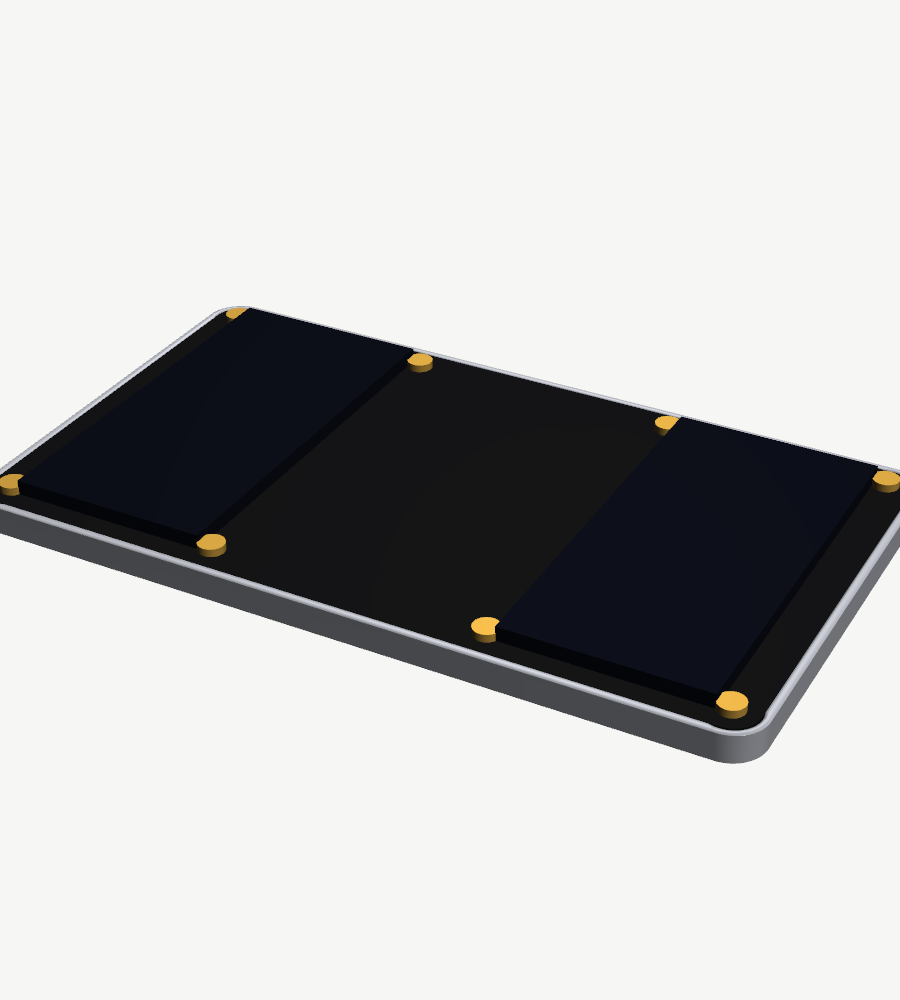
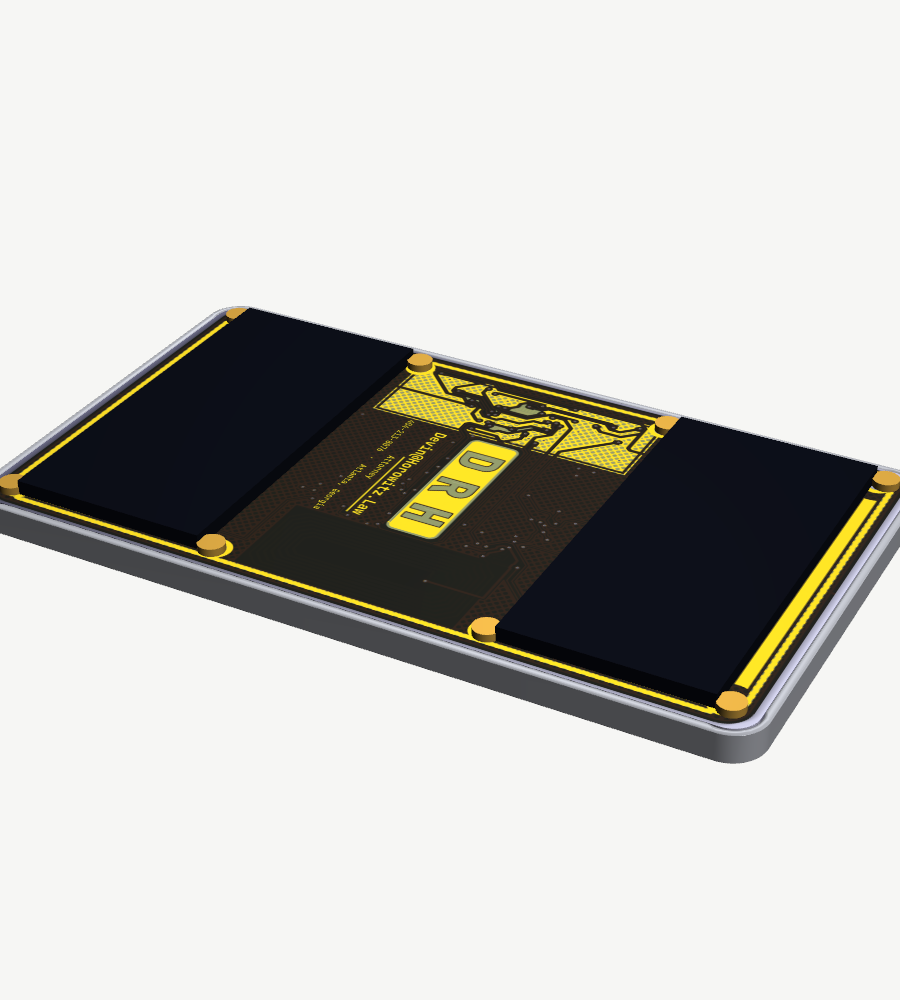
enclosure: the hero shows the actual card, not a black slab
The board was a flat MASK-coloured prism -- honest about the STACK, silent about what the object
IS. No monogram window, no name, no number, nothing that reads at a glance. The show face is now
the raytraced card-face plot textured on, so the DRH window, the cartouche, the ENIG and the
contact line are the board's real artwork.

The plot is orthographic at the board's own aspect (1008x1768 against 50.8 x 88.9, 0.2% off), so
a planar projection maps it with no distortion.

ORIENTATION IS NOT GUESSABLE. VTK's texture origin, the PNG reader's row order and KiCad's y-down
all interact, and the failure is quiet: the first attempt textured perfectly and rendered the name
and number MIRRORED. All four u/v corner assignments were rendered top-down and correlated against
the plot itself -- the one used scores 0.981, the others 0.62 / 0.82 / 0.68. That is now the
comment, so the next person does not re-derive it by eye.

This adds a CI-GENERATED INPUT. Generated/ is CI's and it regenerates from the board on every
PCB/** change, which is the right dependency direction -- re-route the front and the hero follows
-- but a clone that has never run the workflow has nothing to texture with. The script says so and
exits rather than shipping a blank card. (Nothing in CI runs this script; the renders stay
hand-committed, so this only bites locally.)

The GIF encoder is now shared. The exploded sequence was still on the old path -- per-frame
[…]

diff --git a/enclosure/assembly_render.py b/enclosure/assembly_render.py
@@ -17,7 +17,9 @@ Every dimension comes from something already committed, not from a mock-up:
   * the board outline, the 8 mount positions and every part footprint come from
     enclosure/board_parts.py, which reads the committed .kicad_pcb;
   * the Z stack (floor 1.00 / cavity 1.80 / board 0.60) and the screw arithmetic come from
-    enclosure/fit_rules.py and the shell generator's own constants.
+    enclosure/fit_rules.py and the shell generator's own constants;
+  * the show face is the RAYTRACED CARD ITSELF, textured on -- monogram window, name, number,
+    cartouche, ENIG -- not a black rectangle standing in for a PCB.
 
 So if the board moves, these pictures move with it. That is the point -- the previous
 enclosure drawings were hand-restated and quietly went on describing a part that had
@@ -43,6 +45,8 @@ import os, sys, math
 sys.path.insert(0, os.path.dirname(os.path.abspath(__file__)))
 import vtk
 from vtk.util.numpy_support import vtk_to_numpy
+import numpy as np
+from PIL import Image
 import fit_rules as fr
 import board_parts as bp
 from shapely.geometry import box as sbox, Point as spt
@@ -112,6 +116,50 @@ def actor(pd, rgb, spec=0.25, power=20, opacity=1.0):
     return a
 
 
+GIF_COLORS = 256                       # GIF maximum
+GIF_DE = 20                            # a shift this big in a flat area is a visible wrong hue
+GIF_DE_FRAC = 0.5                      # ...and this much of the loop moving that far is the bug
+
+
+def encode_gif(imgs, path, ms, label):
+    """Write an animation as ONE palette sampled across the WHOLE sequence, and prove it landed.
+
+    Per-frame ADAPTIVE palettes -- PIL's default when handed RGB frames, and what this script
+    used to do at 192 colours -- cost a colour table per frame and make flat areas shimmer,
+    because the palette is re-derived from each frame's own histogram. A palette from frame 0
+    alone is worse still: these scenes are nearly all neutral darks (black soldermask, near-black
+    cells, titanium in shadow) with one small warm brass ramp, and frame 0 shows least of it.
+    Fitting 128 colours to that one histogram left the shell's dark greys with no near neighbour
+    and, undithered, they snapped onto the brass browns -- the titanium rim came out visibly TAN
+    while the render behind it was neutral.
+
+    The gate is HOW MUCH of the picture moves, not the single worst pixel: across tens of frames
+    of half-megapixel there is always a specular outlier, and a max-shift gate fired at 70/255 on
+    a sequence whose flat areas were already clean.
+    """
+    srcs = imgs[::max(1, len(imgs) // 10)]
+    mont = Image.new("RGB", (imgs[0].width, imgs[0].height * len(srcs)))
+    for n, im in enumerate(srcs):
+        mont.paste(im, (0, n * imgs[0].height))
+    pal = mont.convert("P", palette=Image.ADAPTIVE, colors=GIF_COLORS)
+    qs = [im.quantize(palette=pal, dither=Image.Dither.NONE) for im in imgs]
+
+    moved = 0
+    for q, s in zip(qs, imgs):
+        d = np.abs(np.asarray(q.convert("RGB")).astype(np.int16)
+                   - np.asarray(s).astype(np.int16)).max(axis=2)
+        moved += int((d > GIF_DE).sum())
+    frac = 100.0 * moved / (len(qs) * imgs[0].width * imgs[0].height)
+    if frac > GIF_DE_FRAC:
+        raise SystemExit(f"{label}: palette is starved -- {frac:.3f}% of the sequence shifts more "
+                         f"than {GIF_DE}/255 (limit {GIF_DE_FRAC}%). Widen the palette sample or "
+                         f"raise GIF_COLORS; an undithered dark neutral lands on the brass ramp.")
+    qs[0].save(path, save_all=True, append_images=qs[1:], duration=ms, loop=0, optimize=True)
+    print(f"wrote {os.path.basename(path)}  {imgs[0].width}x{imgs[0].height}  {len(imgs)} frames  "
+          f"{os.path.getsize(path) // 1024} KB  {frac:.3f}% of pixels shifted >{GIF_DE}")
+    return frac
+
+
 def cyl(x, y, z0, dz, r, res=28):
     s = vtk.vtkCylinderSource(); s.SetRadius(r); s.SetHeight(dz); s.SetResolution(res)
     s.CappingOn(); s.Update()
@@ -132,6 +180,46 @@ for cx, cy in [(R, R), (W - R, R), (R, H - R), (W - R, H - R)]:
 for mx, my in fr.MOUNTS:
     out = out.difference(spt(mx, my).buffer(1.10, resolution=32))
 board_pd = poly_prism(out, Z_BOARD, BOARD)
+
+# ---- the show face, textured with the real card ----------------------------------------
+# A flat black slab is honest about the STACK and says nothing about what this OBJECT IS -- no
+# monogram window, no name, no number. The raytraced card-face plot is an orthographic view of
+# the front at the board's own aspect (1008x1768 against 50.8 x 88.9, 0.2% off), so it maps
+# straight onto the show face with a planar projection and no distortion.
+#
+# NOTE this is the one input here that does NOT come from a file this repo hand-maintains:
+# Generated/ is CI's, and CI regenerates it from the board on every PCB/** change. That is the
+# right dependency direction -- re-route the front and this hero follows -- but it does mean a
+# clone that has never run CI has nothing to texture with, so say so plainly rather than
+# rendering a silently blank card.
+TEX = f"{ROOT}/Generated/docs/solar-glow-drh-v4_0-card-face.png"
+if not os.path.exists(TEX):
+    raise SystemExit(f"missing {TEX} -- it is generated by the KiBot workflow on PCB/** changes; "
+                     f"fetch a branch that has it rather than rendering a blank card")
+
+_tm = vtk.vtkTextureMapToPlane()
+_tm.SetInputData(board_pd)
+# Orientation is not guessable from VTK's conventions -- the texture origin, the PNG reader's
+# row order and KiCad's y-down all interact. All four u/v corner assignments were rendered
+# top-down and correlated against the plot itself: this one scores 0.981, the others 0.62-0.82.
+# The failure mode is quiet and embarrassing rather than loud: the first attempt textured
+# perfectly and rendered the name and number MIRRORED.
+_tm.SetOrigin(W, H, Z_FRONT); _tm.SetPoint1(0.0, H, Z_FRONT); _tm.SetPoint2(W, 0.0, Z_FRONT)
+_tm.Update()
+board_pd = _tm.GetOutput()
+
+_tr = vtk.vtkPNGReader(); _tr.SetFileName(TEX); _tr.Update()
+board_tex = vtk.vtkTexture(); board_tex.SetInputConnection(_tr.GetOutputPort())
+board_tex.InterpolateOn(); board_tex.EdgeClampOn(); board_tex.MipmapOn()
+
+
+def textured(a):
+    """Give a board actor the card plot. White base, so the plot's own colours come through
+    untinted -- leaving it at MASK would multiply the gold down to nearly nothing."""
+    a.GetProperty().SetColor(1.0, 1.0, 1.0)
+    a.SetTexture(board_tex)
+    return a
+
 
 # front-side parts (solar cells) and the back-side blockers, for material colour
 front = bp.parts("F")
@@ -188,7 +276,7 @@ rw = vtk.vtkRenderWindow(); rw.SetOffScreenRendering(1); rw.AddRenderer(ren); rw
 groups = {}
 groups["shell"] = [actor(shell_pd, TI, spec=0.55, power=42)]
 groups["brace"] = [actor(brace_pd, RESIN, spec=0.12, power=8)]
-groups["board"] = ([actor(board_pd, MASK, spec=0.30, power=26)]
+groups["board"] = ([textured(actor(board_pd, MASK, spec=0.30, power=26))]
                    + [actor(p, SOLAR, spec=0.42, power=48) for p in solar_pds]
                    + [actor(p, SILVER, spec=0.75, power=60) for p in cap_pds]
                    + [actor(p, IC, spec=0.22, power=18) for p in ic_pds])
@@ -244,11 +332,8 @@ for i in range(FRAMES):
     frames.append(f"{OUT}/f{i:03d}.png")
 print(f"rendered {len(frames)} frames")
 
-from PIL import Image
-imgs = [Image.open(f).convert("P", palette=Image.ADAPTIVE, colors=192) for f in frames]
 gif = os.path.join(HERE, f"{STEM}.gif")
-imgs[0].save(gif, save_all=True, append_images=imgs[1:], duration=90, loop=0, optimize=True)
-print("wrote", gif, os.path.getsize(gif) // 1024, "KB")
+encode_gif([Image.open(f).convert("RGB") for f in frames], gif, 90, "exploded")
 Image.open(frames[-1]).save(os.path.join(HERE, f"{STEM}-hero.png"))
 Image.open(frames[0]).save(os.path.join(HERE, f"{STEM}-exploded.png"))
 
@@ -266,7 +351,7 @@ def _mat(pd, rgb, diff, spec, pw, amb):
 
 
 ren2.AddActor(_mat(shell_pd, (0.68, 0.69, 0.72), 0.60, 0.62, 46, 0.13))
-ren2.AddActor(_mat(board_pd, MASK, 0.85, 0.30, 26, 0.14))
+ren2.AddActor(textured(_mat(board_pd, MASK, 0.85, 0.30, 26, 0.14)))
 for _p in solar_pds:
     ren2.AddActor(_mat(_p, SOLAR, 0.75, 0.45, 55, 0.10))
 for _k, _pd in screws:
@@ -299,20 +384,14 @@ SPIN_FRAMES = 60
 SPIN_SIZE = 1000                       # square render; the crop below sets the real output size
 SPIN_DIST, SPIN_ELEV, SPIN_VANG = 215.0, 58.0, 30.0
 SPIN_PAD = 22                          # px of background kept around the swept box
-SPIN_COLORS = 256                      # GIF maximum -- see the palette note below
 SPIN_MS = 70                           # -> 4.2 s per revolution
-SPIN_DE = 20                           # a shift this big in a flat area is visible as a wrong hue
-SPIN_DE_FRAC = 0.5                     # ...and this much of the frame moving that far is the bug
-
-import numpy as np
-from PIL import Image
 
 ren3 = vtk.vtkRenderer(); ren3.SetBackground(0.965, 0.963, 0.955)
 rw3 = vtk.vtkRenderWindow(); rw3.SetOffScreenRendering(1); rw3.AddRenderer(ren3)
 rw3.SetSize(SPIN_SIZE, SPIN_SIZE)
 
 for _a in ([_mat(shell_pd, TI, 0.85, 0.55, 42, 0.16), _mat(brace_pd, RESIN, 0.85, 0.12, 8, 0.16),
-            _mat(board_pd, MASK, 0.85, 0.30, 26, 0.16)]
+            textured(_mat(board_pd, MASK, 0.85, 0.30, 26, 0.16))]
            + [_mat(p, SOLAR, 0.85, 0.42, 48, 0.16) for p in solar_pds]
            + [_mat(p, SILVER, 0.85, 0.75, 60, 0.16) for p in cap_pds]
            + [_mat(p, IC, 0.85, 0.22, 18, 0.16) for p in ic_pds]
@@ -359,44 +438,7 @@ _x1 += (_x1 - _x0) & 1                                # even dimensions, for the
 _y1 += (_y1 - _y0) & 1
 _spin = [im.crop((_x0, _y0, _x1, _y1)) for im in _spin]
 
-# ONE palette for the whole loop -- but derived from a SAMPLE OF THE WHOLE LOOP, not from a
-# single frame. Per-frame ADAPTIVE palettes (PIL's default when handed RGB frames) cost a colour
-# table per frame and make flat areas shimmer; a palette taken from frame 0 alone is worse still.
-# This scene is mostly near-neutral darks -- black soldermask, near-black cells, titanium in
-# shadow -- with one small warm brass ramp, and frame 0 is the edge-on view that shows least of
-# it. Fitting 128 colours to that one histogram left the shell's dark greys with no near
-# neighbour, and undithered they snapped onto the brass browns: the titanium rim came out
-# visibly TAN in the GIF while the render behind it was neutral. Sampling around the revolution
-# at the GIF's 256-colour maximum is what fixes it, and the delta below is what proves it.
-_srcs = _spin[::max(1, SPIN_FRAMES // 10)]
-_mont = Image.new("RGB", (_spin[0].width, _spin[0].height * len(_srcs)))
-for _n, _im in enumerate(_srcs):
-    _mont.paste(_im, (0, _n * _spin[0].height))
-_pal = _mont.convert("P", palette=Image.ADAPTIVE, colors=SPIN_COLORS)
-_qs = [im.quantize(palette=_pal, dither=Image.Dither.NONE) for im in _spin]
-
-# Gate on HOW MUCH of the picture moves, not on the single worst pixel. Over 60 frames of ~530k
-# pixels there is always some specular outlier, so a max-shift gate only measures highlights --
-# it fired at 70/255 on a loop whose flat areas were already clean. What went wrong before was
-# broad: 2.43% of the frame shifted >20 and the rim read tan. Measured the same way, sampling the
-# palette around the revolution puts that at 0.06% -- 39x better -- while >40 and >60 barely move,
-# which is exactly the signature of "the flat areas are fixed, the highlights were never the
-# problem". 256 colours alone only reached 1.83%; the montage is what does the work.
-_moved = 0
-for _q, _s in zip(_qs, _spin):
-    _d = np.abs(np.asarray(_q.convert("RGB")).astype(np.int16)
-                - np.asarray(_s).astype(np.int16)).max(axis=2)
-    _moved += int((_d > SPIN_DE).sum())
-_frac = 100.0 * _moved / (len(_qs) * _spin[0].width * _spin[0].height)
-if _frac > SPIN_DE_FRAC:
-    raise SystemExit(f"turntable palette is starved: {_frac:.3f}% of the loop shifts more than "
-                     f"{SPIN_DE}/255 (limit {SPIN_DE_FRAC}%). Widen the palette sample or raise "
-                     f"SPIN_COLORS -- an undithered dark neutral lands on the brass ramp.")
-
-_gif = os.path.join(HERE, f"{STEM}-spin.gif")
-_qs[0].save(_gif, save_all=True, append_images=_qs[1:], duration=SPIN_MS, loop=0, optimize=True)
-print(f"wrote {STEM}-spin.gif  {_x1 - _x0}x{_y1 - _y0}  {SPIN_FRAMES} frames  "
-      f"{os.path.getsize(_gif) // 1024} KB  {_frac:.3f}% of pixels shifted >{SPIN_DE}")
+encode_gif(_spin, os.path.join(HERE, f"{STEM}-spin.gif"), SPIN_MS, "turntable")
 
 print(f"wrote {STEM}-hero.png, -exploded.png, -reverse.png, .gif, -spin.gif")
 

diff --git a/README.md b/README.md
@@ -8,10 +8,12 @@ a supercapacitor bank that holds the charge.
 ![SOLAR-GLOW · DRH — the assembled card turning: titanium back-shell, resin brace, PCB, 8× M2 brass](https://raw.githubusercontent.com/devinhorowitz/solar-business-card/main/enclosure/solar-glow-drh-assembly-spin.gif)
 
 <sub>The assembled card — Ti back-shell, resin diffuser brace, 0.60 mm PCB and eight M2 brass screws.
-Not an artist's impression: every surface here is the committed STEP-derived STL, the board outline
-and the eight mount positions come straight out of the `.kicad_pcb`, and the Z stack is the one
-`enclosure/fit_rules.py` enforces — so if the board moves, this picture moves with it. Stills, the
-exploded and reverse views, and the full respin are in [`enclosure/README.md`](enclosure/README.md).</sub>
+Not an artist's impression: every surface is the committed STEP-derived STL, the outline and the
+eight mount positions come straight out of the `.kicad_pcb`, the Z stack is the one
+`enclosure/fit_rules.py` enforces, and the show face is the **raytraced board itself** — the
+monogram window, the cartouche, the ENIG and the contact line are the real artwork, not a stand-in.
+Re-route the front and this picture follows. Stills, the exploded and reverse views, and the full
+respin are in [`enclosure/README.md`](enclosure/README.md).</sub>
 
 ![SOLAR-GLOW · DRH — front and back, gold ENIG on black soldermask](https://github.com/devinhorowitz/solar-business-card/blob/main/Generated/docs/solar-glow-drh-v4_0-top.png)
 

diff --git a/enclosure/README.md b/enclosure/README.md
@@ -95,7 +95,11 @@ part positions from `enclosure/board_parts.py` (true 3D body ∪ pads, with the 
 
 <sub>One seamless revolution of the closed assembly at the hero camera — 60 frames, 954×558. This is
 the root README's hero. `solar-glow-drh-assembly-hero.png` is the same camera as a still, and
-`solar-glow-drh-assembly.gif` is the exploded-to-closed sequence.</sub>
+`solar-glow-drh-assembly.gif` is the exploded-to-closed sequence. The show face is
+`Generated/docs/…-card-face.png` textured on, so the monogram, cartouche and contact line are the
+board's real artwork — which also means this render has a **CI-generated input**: a clone that has
+never run the KiBot workflow has nothing to texture with, and the script says so rather than
+quietly rendering a blank card.</sub>
 
 ![Reverse side, closed — brass tips flush in their Ø3.0 spotfaces](solar-glow-drh-assembly-reverse.png)
 
